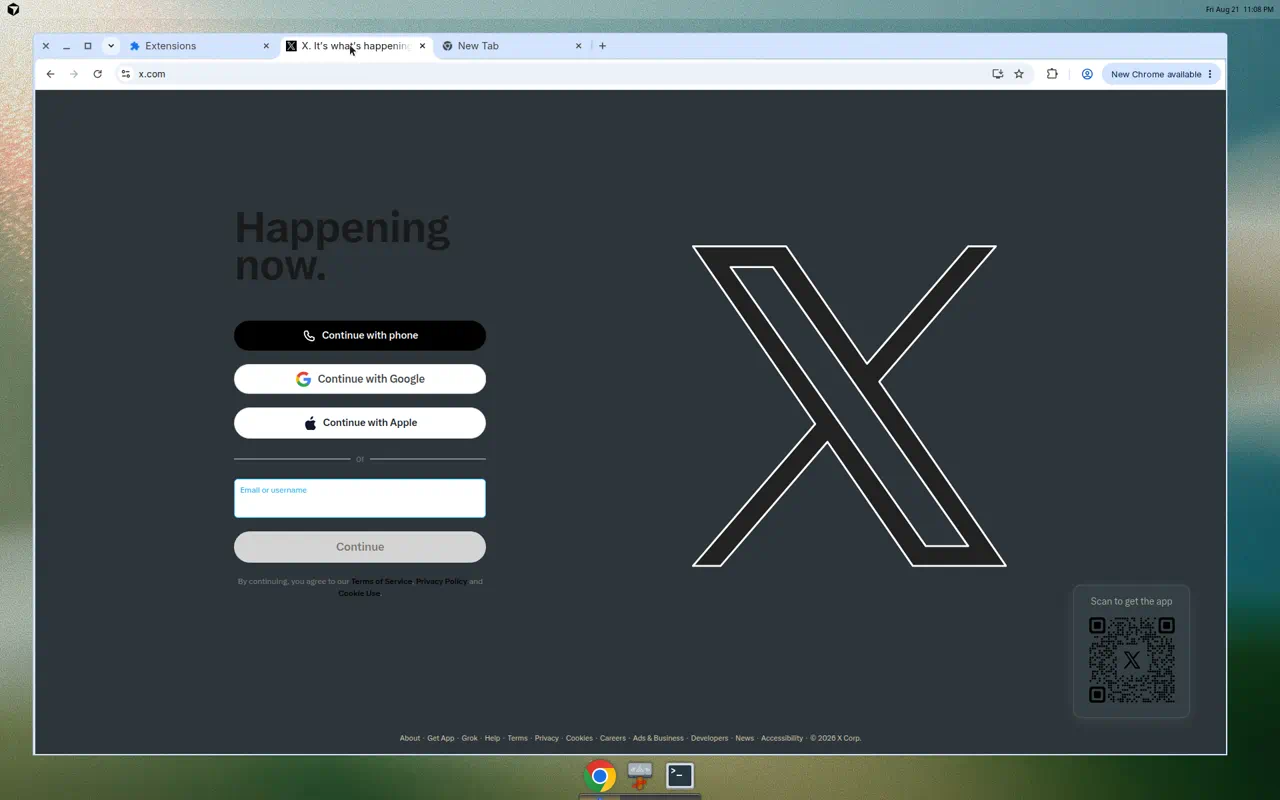
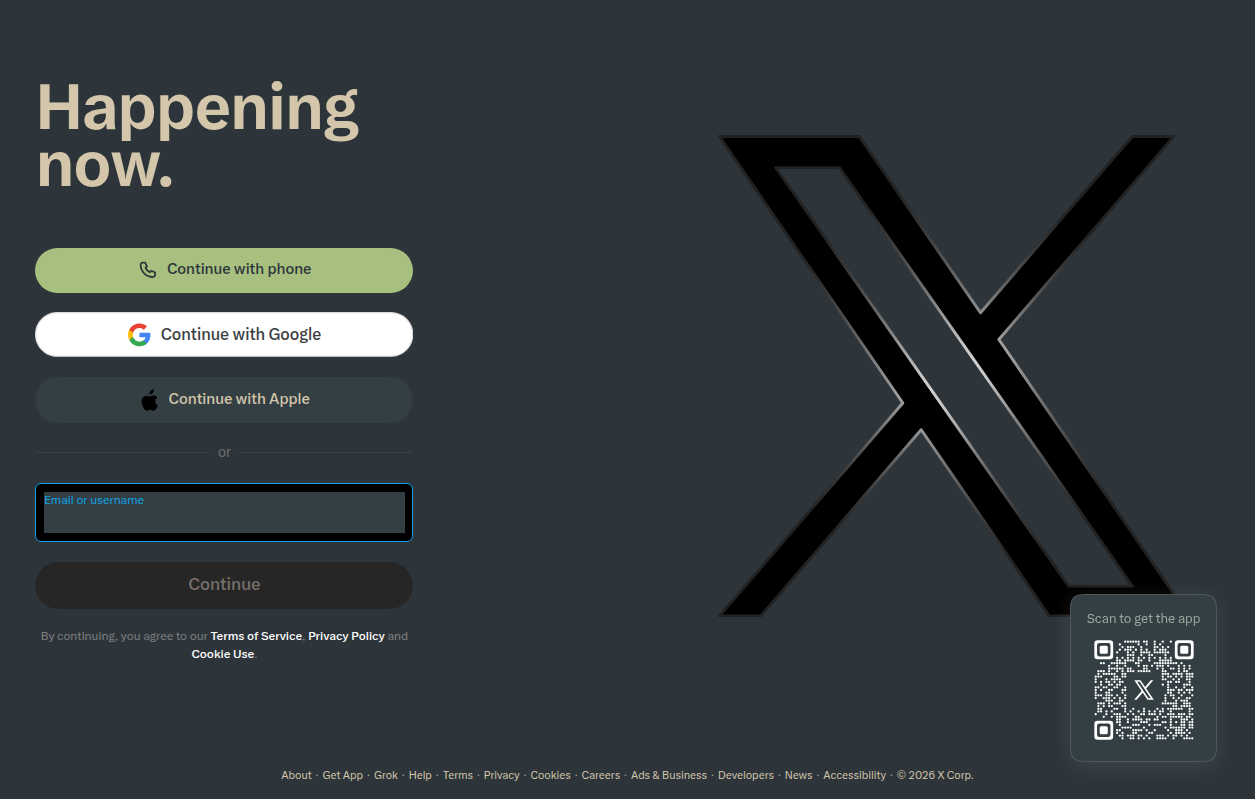
fix(x): paint Jetfuel OAuth CTAs; sweep site screenshots
X's hydrated login replaces Tailwind utilities with hashed Jetfuel
classes that hardcode rgba fills — style Continue-with-* pills and the
email field by label from the content script. Theme YouTube's signed-out
feed nudge. Add multi-site after screenshots under docs/pr-screenshots.

diff --git a/src/content.ts b/src/content.ts
@@ -69,6 +69,7 @@ function syncXPageStyle(on: boolean): void {
   const existing = document.getElementById(X_PAGE_STYLE_ID);
   if (!on) {
     existing?.remove();
+    clearXJetfuelCtas();
     return;
   }
   const style = existing ?? document.createElement("style");
@@ -76,6 +77,105 @@ function syncXPageStyle(on: boolean): void {
   style.textContent = X_PAGE_CSS;
   // Append (or re-append) so we stay after X's linked stylesheets / hydration.
   (document.documentElement || document.head || document).appendChild(style);
+  scheduleXJetfuelCtas();
+}
+
+/** After hydration, X's Jetfuel login replaces Tailwind utilities with hashed
+ *  classes that hardcode rgba(248,250,252) / #fff / #000. Style those CTAs by
+ *  visible label so OAuth pills track Everforest even when hashes churn. */
+const X_CTA_ATTR = "data-ef-x-cta";
+let xCtaQueued = false;
+
+function clearXJetfuelCtas(): void {
+  document.querySelectorAll<HTMLElement>(`[${X_CTA_ATTR}]`).forEach((el) => {
+    el.style.removeProperty("background");
+    el.style.removeProperty("background-color");
+    el.style.removeProperty("color");
+    el.style.removeProperty("border-color");
+    el.style.removeProperty("fill");
+    el.removeAttribute(X_CTA_ATTR);
+  });
+}
+
+function opaqueLoginSurface(el: HTMLElement): HTMLElement {
+  let best: HTMLElement | null = null;
+  const consider = (node: HTMLElement) => {
+    const bg = getComputedStyle(node).backgroundColor;
+    if (!bg || bg === "transparent" || bg === "rgba(0, 0, 0, 0)") return;
+    best = node;
+  };
+  consider(el);
+  el.querySelectorAll<HTMLElement>("div, span").forEach((node) => {
+    const radius = getComputedStyle(node).borderRadius;
+    if (radius.includes("999") || parseFloat(radius) >= 16) consider(node);
+    else if (!best) consider(node);
+  });
+  return best ?? el;
+}
+
+function paintXJetfuelCtas(): void {
+  if (root.getAttribute("data-ef") === "off") return;
+  const cs = getComputedStyle(root);
+  const green = cs.getPropertyValue("--ef-green").trim() || "#a7c080";
+  const bg1 = cs.getPropertyValue("--ef-bg1").trim() || "#343f44";
+  const onAccent = cs.getPropertyValue("--ef-on-accent").trim() || "#2d353b";
+  const fg = cs.getPropertyValue("--ef-fg").trim() || "#d3c6aa";
+  const border = cs.getPropertyValue("--ef-border").trim() || "#4f585e";
+
+  const apply = (surface: HTMLElement, kind: "phone" | "oauth" | "field") => {
+    const bg = kind === "phone" ? green : bg1;
+    const color = kind === "phone" ? onAccent : fg;
+    surface.style.setProperty("background", bg, "important");
+    surface.style.setProperty("background-color", bg, "important");
+    surface.style.setProperty("color", color, "important");
+    surface.style.setProperty("border-color", kind === "phone" ? green : border, "important");
+    surface.setAttribute(X_CTA_ATTR, kind);
+    if (kind === "phone") {
+      surface.querySelectorAll<HTMLElement>("span, svg, path").forEach((n) => {
+        n.style.setProperty("color", onAccent, "important");
+        n.style.setProperty("fill", onAccent, "important");
+      });
+    } else if (kind === "oauth") {
+      surface.querySelectorAll<HTMLElement>("span, div").forEach((n) => {
+        if (n.closest("svg")) return;
+        n.style.setProperty("color", fg, "important");
+      });
+      // Apple/Google marks often hardcode fill="#000" — force readable ink.
+      surface.querySelectorAll<SVGElement>("svg, path").forEach((n) => {
+        n.style.setProperty("fill", fg, "important");
+        n.style.setProperty("color", fg, "important");
+      });
+    }
+  };
+
+  for (const el of document.querySelectorAll<HTMLElement>(
+    "button, [role='button'], div.jf-element, div.nsm7Bb-HzV7m-LgbsSe, div.jf-gsi-face",
+  )) {
+    const text = (el.innerText || "").replace(/\s+/g, " ").trim();
+    if (text.length > 48) continue;
+    if (/^Continue with phone$/i.test(text)) apply(opaqueLoginSurface(el), "phone");
+    else if (/^Continue with (Google|Apple)$/i.test(text)) apply(opaqueLoginSurface(el), "oauth");
+  }
+
+  // Email / username field: Jetfuel hardcodes black in dark mode.
+  for (const el of document.querySelectorAll<HTMLElement>(".jetfuel-style-root div, .jetfuel-style-root input")) {
+    const text = (el.innerText || el.getAttribute("placeholder") || "").replace(/\s+/g, " ").trim();
+    if (!/^Email or username$/i.test(text) && el.getAttribute("placeholder") !== "Email or username") {
+      continue;
+    }
+    const surface = opaqueLoginSurface(el);
+    if (surface.closest("button")) continue;
+    apply(surface, "field");
+  }
+}
+
+function scheduleXJetfuelCtas(): void {
+  if (xCtaQueued) return;
+  xCtaQueued = true;
+  requestAnimationFrame(() => {
+    xCtaQueued = false;
+    paintXJetfuelCtas();
+  });
 }
 
 function syncXDataTheme(on: boolean, mode: Settings["mode"]): void {
@@ -114,7 +214,8 @@ if (site === "x") {
     if (!currentSettings) return;
     const on = currentSettings.enabled && currentSettings.sites.x !== false;
     if (on && !document.getElementById(X_PAGE_STYLE_ID)) syncXPageStyle(true);
-  }).observe(root, { childList: true });
+    else if (on) scheduleXJetfuelCtas();
+  }).observe(root, { childList: true, subtree: true });
 }
 
 function syncPageKind(): void {

diff --git a/src/x.css b/src/x.css
@@ -192,6 +192,18 @@ html:not([data-ef="off"]) div[role="button"].nsm7Bb-HzV7m-LgbsSe {
 html:not([data-ef="off"]) .nsm7Bb-HzV7m-LgbsSe :where(span, div) {
   color: var(--ef-fg) !important;
 }
+/* Jetfuel login shell: hydrated OAuth pills use hashed classes with hardcoded
+   rgba() fills. content.ts paints those by label; keep the shell tokens calm. */
+html:not([data-ef="off"]) .jetfuel-style-root {
+  color: var(--ef-fg);
+}
+html:not([data-ef="off"]) .jetfuel-style-root .jf-gsi-face,
+html:not([data-ef="off"]) .jetfuel-style-root .nsm7Bb-HzV7m-LgbsSe {
+  background: var(--ef-bg1) !important;
+  background-color: var(--ef-bg1) !important;
+  color: var(--ef-fg) !important;
+  border-color: var(--ef-border) !important;
+}
 /* Primary CTA labels sitting on the remapped green --x-btn-primary. */
 html:not([data-ef="off"]) :is(button, [role="button"], a).bg-primary,
 html:not([data-ef="off"]) :is(button, [role="button"], a).bg-primary :where(span, div) {

diff --git a/src/youtube.css b/src/youtube.css
@@ -106,3 +106,11 @@ html:not([data-ef="off"]) .ytSearchboxComponentSearchButton {
 /* feed / history / playlist page headers default to white */
 html:not([data-ef="off"]) div.ytd-tabbed-page-header,
 html:not([data-ef="off"]) .page-header-view-model-wiz { background-color: var(--ef-s1) !important; }
+
+/* Signed-out empty-state nudge — YouTube hardcodes a near-black card. */
+html:not([data-ef="off"]) ytd-feed-nudge-renderer,
+html:not([data-ef="off"]) ytd-feed-nudge-renderer > *,
+html:not([data-ef="off"]) .ytd-feed-nudge-renderer {
+  background-color: var(--ef-s2) !important;
+  color: var(--ef-fg1) !important;
+}

diff --git a/test/settings.test.ts b/test/settings.test.ts
@@ -222,5 +222,8 @@ describe("X page-DOM OAuth style injection", () => {
     expect(contentTs).toContain(".bg-white");
     expect(contentTs).toContain(".bg-black");
     expect(contentTs).toContain("dark\\\\:bg-slate-50");
+    expect(contentTs).toContain("paintXJetfuelCtas");
+    expect(contentTs).toContain("data-ef-x-cta");
+    expect(contentTs).toContain("Continue with phone");
   });
 });
